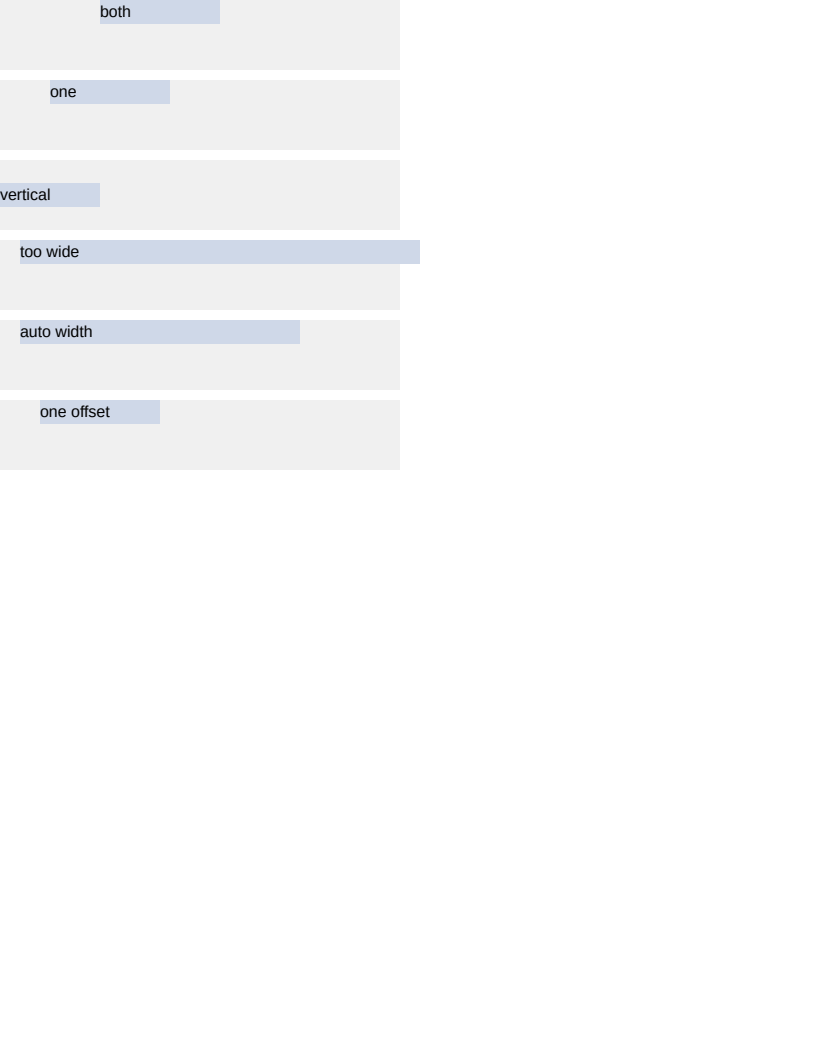
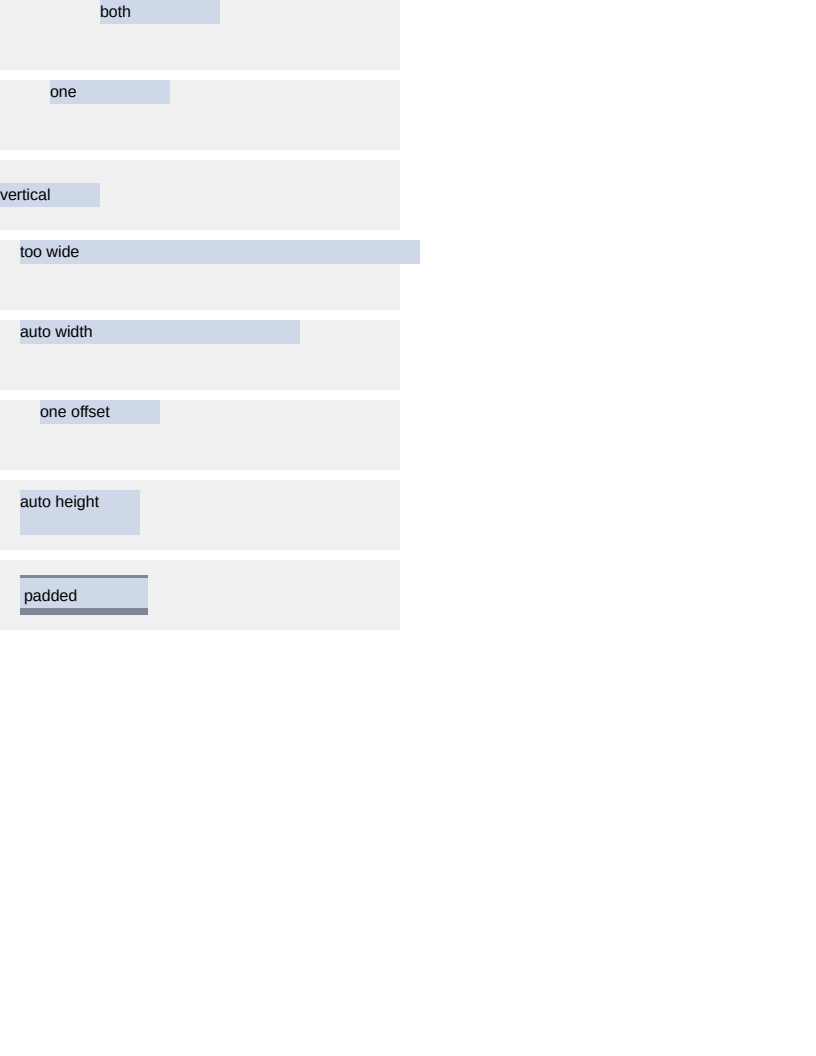
Stretch an absolute box between top and bottom
An auto WIDTH already spanned left to right; an auto height did not span top to bottom,
because BlockLayout.Layout took an assigned width and no assigned height and there was
nothing to hand a forced height to. It takes one now, and CSS 2.1 §10.6.4's other half
falls out: the box fills the gap, and the auto margins that would have absorbed the
slack resolve to zero because there is none left.

Two rows added to position/auto_margins, which recorded the gap. The second carries a
border and padding: the gap the offsets leave is a margin-box extent, so the surround
comes out of the height rather than being added to it. Both exact, and the scenario
stays pixel-identical.

Changed region(s): [[0.0, 0.4375, 0.1838, 0.5938]]

diff --git a/src/Krilla.Html.Tests/Inputs/position/auto_margins/input.css b/src/Krilla.Html.Tests/Inputs/position/auto_margins/input.css
@@ -36,3 +36,21 @@
 
 /* Only one offset given, so the box is not over-constrained and the auto margins are zero. */
 #left { left: 40px; width: 120px; margin-left: auto; margin-right: auto; }
+
+/* An AUTO height spans `top` to `bottom`, the mirror of `#filled`. Its one line of text stays at
+   the top of the box it fills rather than being stretched or centred, so the background reaching
+   the frame's bottom edge is the whole of what says the box grew. */
+#stretched { top: 10px; bottom: 15px; left: 20px; width: 120px; margin-top: auto; margin-bottom: auto; }
+
+/* The same, with padding and a border inside it: the gap the offsets leave is a MARGIN-box extent,
+   so the surround comes out of the height rather than being added to it. */
+#inset {
+  top: 10px;
+  bottom: 15px;
+  left: 20px;
+  width: 120px;
+  margin-top: 5px;
+  padding: 6px 4px 9px;
+  border-top: 3px solid #808898;
+  border-bottom: 7px solid #808898;
+}

diff --git a/src/Krilla.Html.Tests/Inputs/position/auto_margins/input.html b/src/Krilla.Html.Tests/Inputs/position/auto_margins/input.html
@@ -4,3 +4,5 @@
 <div class="frame" id="overflow"><div class="box" id="wider">too wide</div></div>
 <div class="frame" id="stretch"><div class="box" id="filled">auto width</div></div>
 <div class="frame" id="unanchored"><div class="box" id="left">one offset</div></div>
+<div class="frame" id="tall"><div class="box" id="stretched">auto height</div></div>
+<div class="frame" id="padded"><div class="box" id="inset">padded</div></div>

diff --git a/src/Krilla.Html/Layout/AbsoluteLayout.cs b/src/Krilla.Html/Layout/AbsoluteLayout.cs
@@ -115,7 +115,16 @@ static class AbsoluteLayout
         var marginTop = style.MarginTop.Resolve(width);
 
         var assigned = Width(box, containing, left, right, marginLeft, marginRight, fonts);
-        var used = BlockLayout.Layout(box, 0, 0, width, fonts, assigned);
+
+        var stretched = Height(
+            box,
+            containing,
+            top,
+            bottom,
+            marginTop,
+            style.MarginBottom.Resolve(width));
+
+        var used = BlockLayout.Layout(box, 0, 0, width, fonts, assigned, assignedHeight: stretched);
 
         // CSS 2.1 §10.3.7 and §10.6.4. With an offset at each end AND a definite size between them
         // the equation is over-constrained, and it is the auto margins that absorb the slack: both
@@ -124,9 +133,10 @@ static class AbsoluteLayout
         // standard ways to centre something — `left: 0; right: 0; margin: 0 auto` on a box with a
         // width.
         //
-        // A definite size is the condition that matters. With `width: auto` the box already
-        // stretches to span the offsets and there is no slack to share; vertically, an auto height
-        // does NOT stretch here, so centring it would be sharing out the gap it should have filled.
+        // A definite size is the condition that matters, and BOTH axes now stretch when it is
+        // absent — an auto width spans `left` to `right` and an auto height spans `top` to
+        // `bottom`, so in either case the box already fills the gap and there is no slack for a
+        // margin to absorb.
         if (left is not null && right is not null && Definite(box, style.Width))
         {
             (marginLeft, marginRight) = Share(
@@ -214,6 +224,53 @@ static class AbsoluteLayout
         // Over-constrained with nothing auto to absorb it. The end offset is ignored, which is
         // what preferring `left` and `top` below already does.
         return (start, end);
+    }
+
+    /// <summary>
+    /// The content height to give the box, or null to let its own content decide.
+    /// </summary>
+    /// <remarks>
+    /// <para>
+    /// With <c>top</c> and <c>bottom</c> both given and an auto height, CSS 2.1 §10.6.4 solves the
+    /// equation for the height rather than for a margin: the box fills the gap the offsets leave,
+    /// and the auto margins that would otherwise have absorbed the slack resolve to zero because
+    /// there is none. That is the vertical mirror of an auto width spanning <c>left</c> and
+    /// <c>right</c>.
+    /// </para>
+    /// <para>
+    /// A CONTENT height, so the surround comes off here. The gap between the offsets is a
+    /// margin-box extent and the box's own padding and border sit inside it, which is true whatever
+    /// <c>box-sizing</c> says — the number was never a declared one, so there is nothing for that
+    /// property to reinterpret.
+    /// </para>
+    /// <para>
+    /// The content itself is NOT stretched. It stays at the top of a box that is now taller than it
+    /// needed to be, which is what a browser does and what makes this a sizing change rather than
+    /// an alignment one.
+    /// </para>
+    /// </remarks>
+    static float? Height(
+        LayoutBox box,
+        Rect containing,
+        float? top,
+        float? bottom,
+        float marginTop,
+        float marginBottom)
+    {
+        var style = box.Style;
+
+        if (top is null || bottom is null || Definite(box, style.Height))
+        {
+            return null;
+        }
+
+        var surround = style.PaddingTop.Resolve(containing.Width) +
+                       style.PaddingBottom.Resolve(containing.Width) +
+                       style.BorderWidthY;
+
+        return Math.Max(
+            0,
+            containing.Height - top.Value - bottom.Value - marginTop - marginBottom - surround);
     }
 
     /// <summary>

diff --git a/src/Krilla.Html/Layout/BlockLayout.cs b/src/Krilla.Html/Layout/BlockLayout.cs
@@ -37,6 +37,14 @@ static class BlockLayout
     /// <param name="y">Top edge of this box's border box. Margins are the caller's business.</param>
     /// <param name="containingWidth">The containing block's content width.</param>
     /// <param name="fonts">The faces available for measuring text.</param>
+    /// <param name="assignedHeight">
+    /// A content height to use in place of the one the content came to, for a caller that has
+    /// already decided how tall the box is. Only <see cref="AbsoluteLayout"/> passes it, for a box
+    /// stretched between <c>top</c> and <c>bottom</c> — the vertical mirror of
+    /// <paramref name="assignedWidth"/>, and the reason an auto height can now be settled by
+    /// something other than the content. A DECLARED height still wins, since a caller only passes
+    /// this where there is none.
+    /// </param>
     /// <param name="assignedWidth">
     /// A width to use instead of resolving one, for a box whose width its container decided. A
     /// table cell has one, its column having settled the width before the cell was reached; so
@@ -55,7 +63,8 @@ static class BlockLayout
         float containingWidth,
         FontSet fonts,
         float? assignedWidth = null,
-        FloatContext? floats = null)
+        FloatContext? floats = null,
+        float? assignedHeight = null)
     {
         var style = box.Style;
 
@@ -161,7 +170,7 @@ static class BlockLayout
             replacedHeight ??
             (style.Height.Kind == LengthKind.Absolute
                 ? style.ContentSize(style.Height.Value, surroundY)
-                : Ratio(style, borderBoxWidth, surroundY) ?? contentHeight),
+                : assignedHeight ?? Ratio(style, borderBoxWidth, surroundY) ?? contentHeight),
             style,
             surroundY);
 

diff --git a/src/Krilla.Html.Tests/Inputs/compare-all.md b/src/Krilla.Html.Tests/Inputs/compare-all.md
@@ -3020,16 +3020,18 @@ distinguishes yet". Nothing in the corpus measured it.
   width already spans the offsets so there is no slack, and a single offset does not over-constrain
   anything. Both render identically with the property implemented and without it, and they are here
   so that an over-eager reading has somewhere to fail.
+- **`#stretched`** is `#filled`'s vertical mirror, and it is the row that says an auto HEIGHT spans
+  `top` to `bottom`. Its auto margins are zero for the same reason: the box already fills the gap.
+  Its single line of text stays at the TOP of the box rather than being stretched or centred, so
+  what says the box grew is its background reaching the frame's bottom edge — a stretch that was
+  not applied leaves a 24px box where a 45px one belongs.
+- **`#inset`** is the same with a border and padding inside it. The gap the offsets leave is a
+  MARGIN-box extent, so the surround comes OUT of the height rather than being added to it: 70px of
+  frame less a 10px top offset, a 15px bottom offset and a 5px top margin leaves a 40px border box,
+  and 10px of border and 15px of padding leave 15px of content. Adding the surround instead gives a
+  box 25px too tall, which overflows the frame and is the mistake this row exists to catch.
 
-## What is still not done
-
-An auto HEIGHT with `top` and `bottom` both given should stretch the box between them, the way an
-auto width already does horizontally. It does not: `BlockLayout.Layout` takes an assigned width and
-no assigned height, so there is nothing to hand a forced height to. That is why `Definite` gates the
-vertical case on a declared height rather than mirroring the horizontal branch — centring a box that
-should have stretched shares out the gap it was supposed to fill.
-
-**Boxes**: 14 matched, worst offset 0.00px, worst size 0.00px.
+**Boxes**: 18 matched, worst offset 0.00px, worst size 0.00px.
 
 | Reference (Chrome) | Krilla.Html |
 | --- | --- |

diff --git a/src/Krilla.Html.Tests/Inputs/position/auto_margins/compare.md b/src/Krilla.Html.Tests/Inputs/position/auto_margins/compare.md
@@ -33,16 +33,18 @@ distinguishes yet". Nothing in the corpus measured it.
   width already spans the offsets so there is no slack, and a single offset does not over-constrain
   anything. Both render identically with the property implemented and without it, and they are here
   so that an over-eager reading has somewhere to fail.
+- **`#stretched`** is `#filled`'s vertical mirror, and it is the row that says an auto HEIGHT spans
+  `top` to `bottom`. Its auto margins are zero for the same reason: the box already fills the gap.
+  Its single line of text stays at the TOP of the box rather than being stretched or centred, so
+  what says the box grew is its background reaching the frame's bottom edge — a stretch that was
+  not applied leaves a 24px box where a 45px one belongs.
+- **`#inset`** is the same with a border and padding inside it. The gap the offsets leave is a
+  MARGIN-box extent, so the surround comes OUT of the height rather than being added to it: 70px of
+  frame less a 10px top offset, a 15px bottom offset and a 5px top margin leaves a 40px border box,
+  and 10px of border and 15px of padding leave 15px of content. Adding the surround instead gives a
+  box 25px too tall, which overflows the frame and is the mistake this row exists to catch.
 
-## What is still not done
-
-An auto HEIGHT with `top` and `bottom` both given should stretch the box between them, the way an
-auto width already does horizontally. It does not: `BlockLayout.Layout` takes an assigned width and
-no assigned height, so there is nothing to hand a forced height to. That is why `Definite` gates the
-vertical case on a declared height rather than mirroring the horizontal branch — centring a box that
-should have stretched shares out the gap it was supposed to fill.
-
-**Boxes**: 14 matched, worst offset 0.00px, worst size 0.00px.
+**Boxes**: 18 matched, worst offset 0.00px, worst size 0.00px.
 
 | Reference (Chrome) | Krilla.Html |
 | --- | --- |

diff --git a/src/Krilla.Html.Tests/Inputs/position/auto_margins/notes.md b/src/Krilla.Html.Tests/Inputs/position/auto_margins/notes.md
@@ -31,11 +31,13 @@ distinguishes yet". Nothing in the corpus measured it.
   width already spans the offsets so there is no slack, and a single offset does not over-constrain
   anything. Both render identically with the property implemented and without it, and they are here
   so that an over-eager reading has somewhere to fail.
-
-## What is still not done
-
-An auto HEIGHT with `top` and `bottom` both given should stretch the box between them, the way an
-auto width already does horizontally. It does not: `BlockLayout.Layout` takes an assigned width and
-no assigned height, so there is nothing to hand a forced height to. That is why `Definite` gates the
-vertical case on a declared height rather than mirroring the horizontal branch — centring a box that
-should have stretched shares out the gap it was supposed to fill.
+- **`#stretched`** is `#filled`'s vertical mirror, and it is the row that says an auto HEIGHT spans
+  `top` to `bottom`. Its auto margins are zero for the same reason: the box already fills the gap.
+  Its single line of text stays at the TOP of the box rather than being stretched or centred, so
+  what says the box grew is its background reaching the frame's bottom edge — a stretch that was
+  not applied leaves a 24px box where a 45px one belongs.
+- **`#inset`** is the same with a border and padding inside it. The gap the offsets leave is a
+  MARGIN-box extent, so the surround comes OUT of the height rather than being added to it: 70px of
+  frame less a 10px top offset, a 15px bottom offset and a 5px top margin leaves a 40px border box,
+  and 10px of border and 15px of padding leave 15px of content. Adding the surround instead gives a
+  box 25px too tall, which overflows the frame and is the mistake this row exists to catch.
